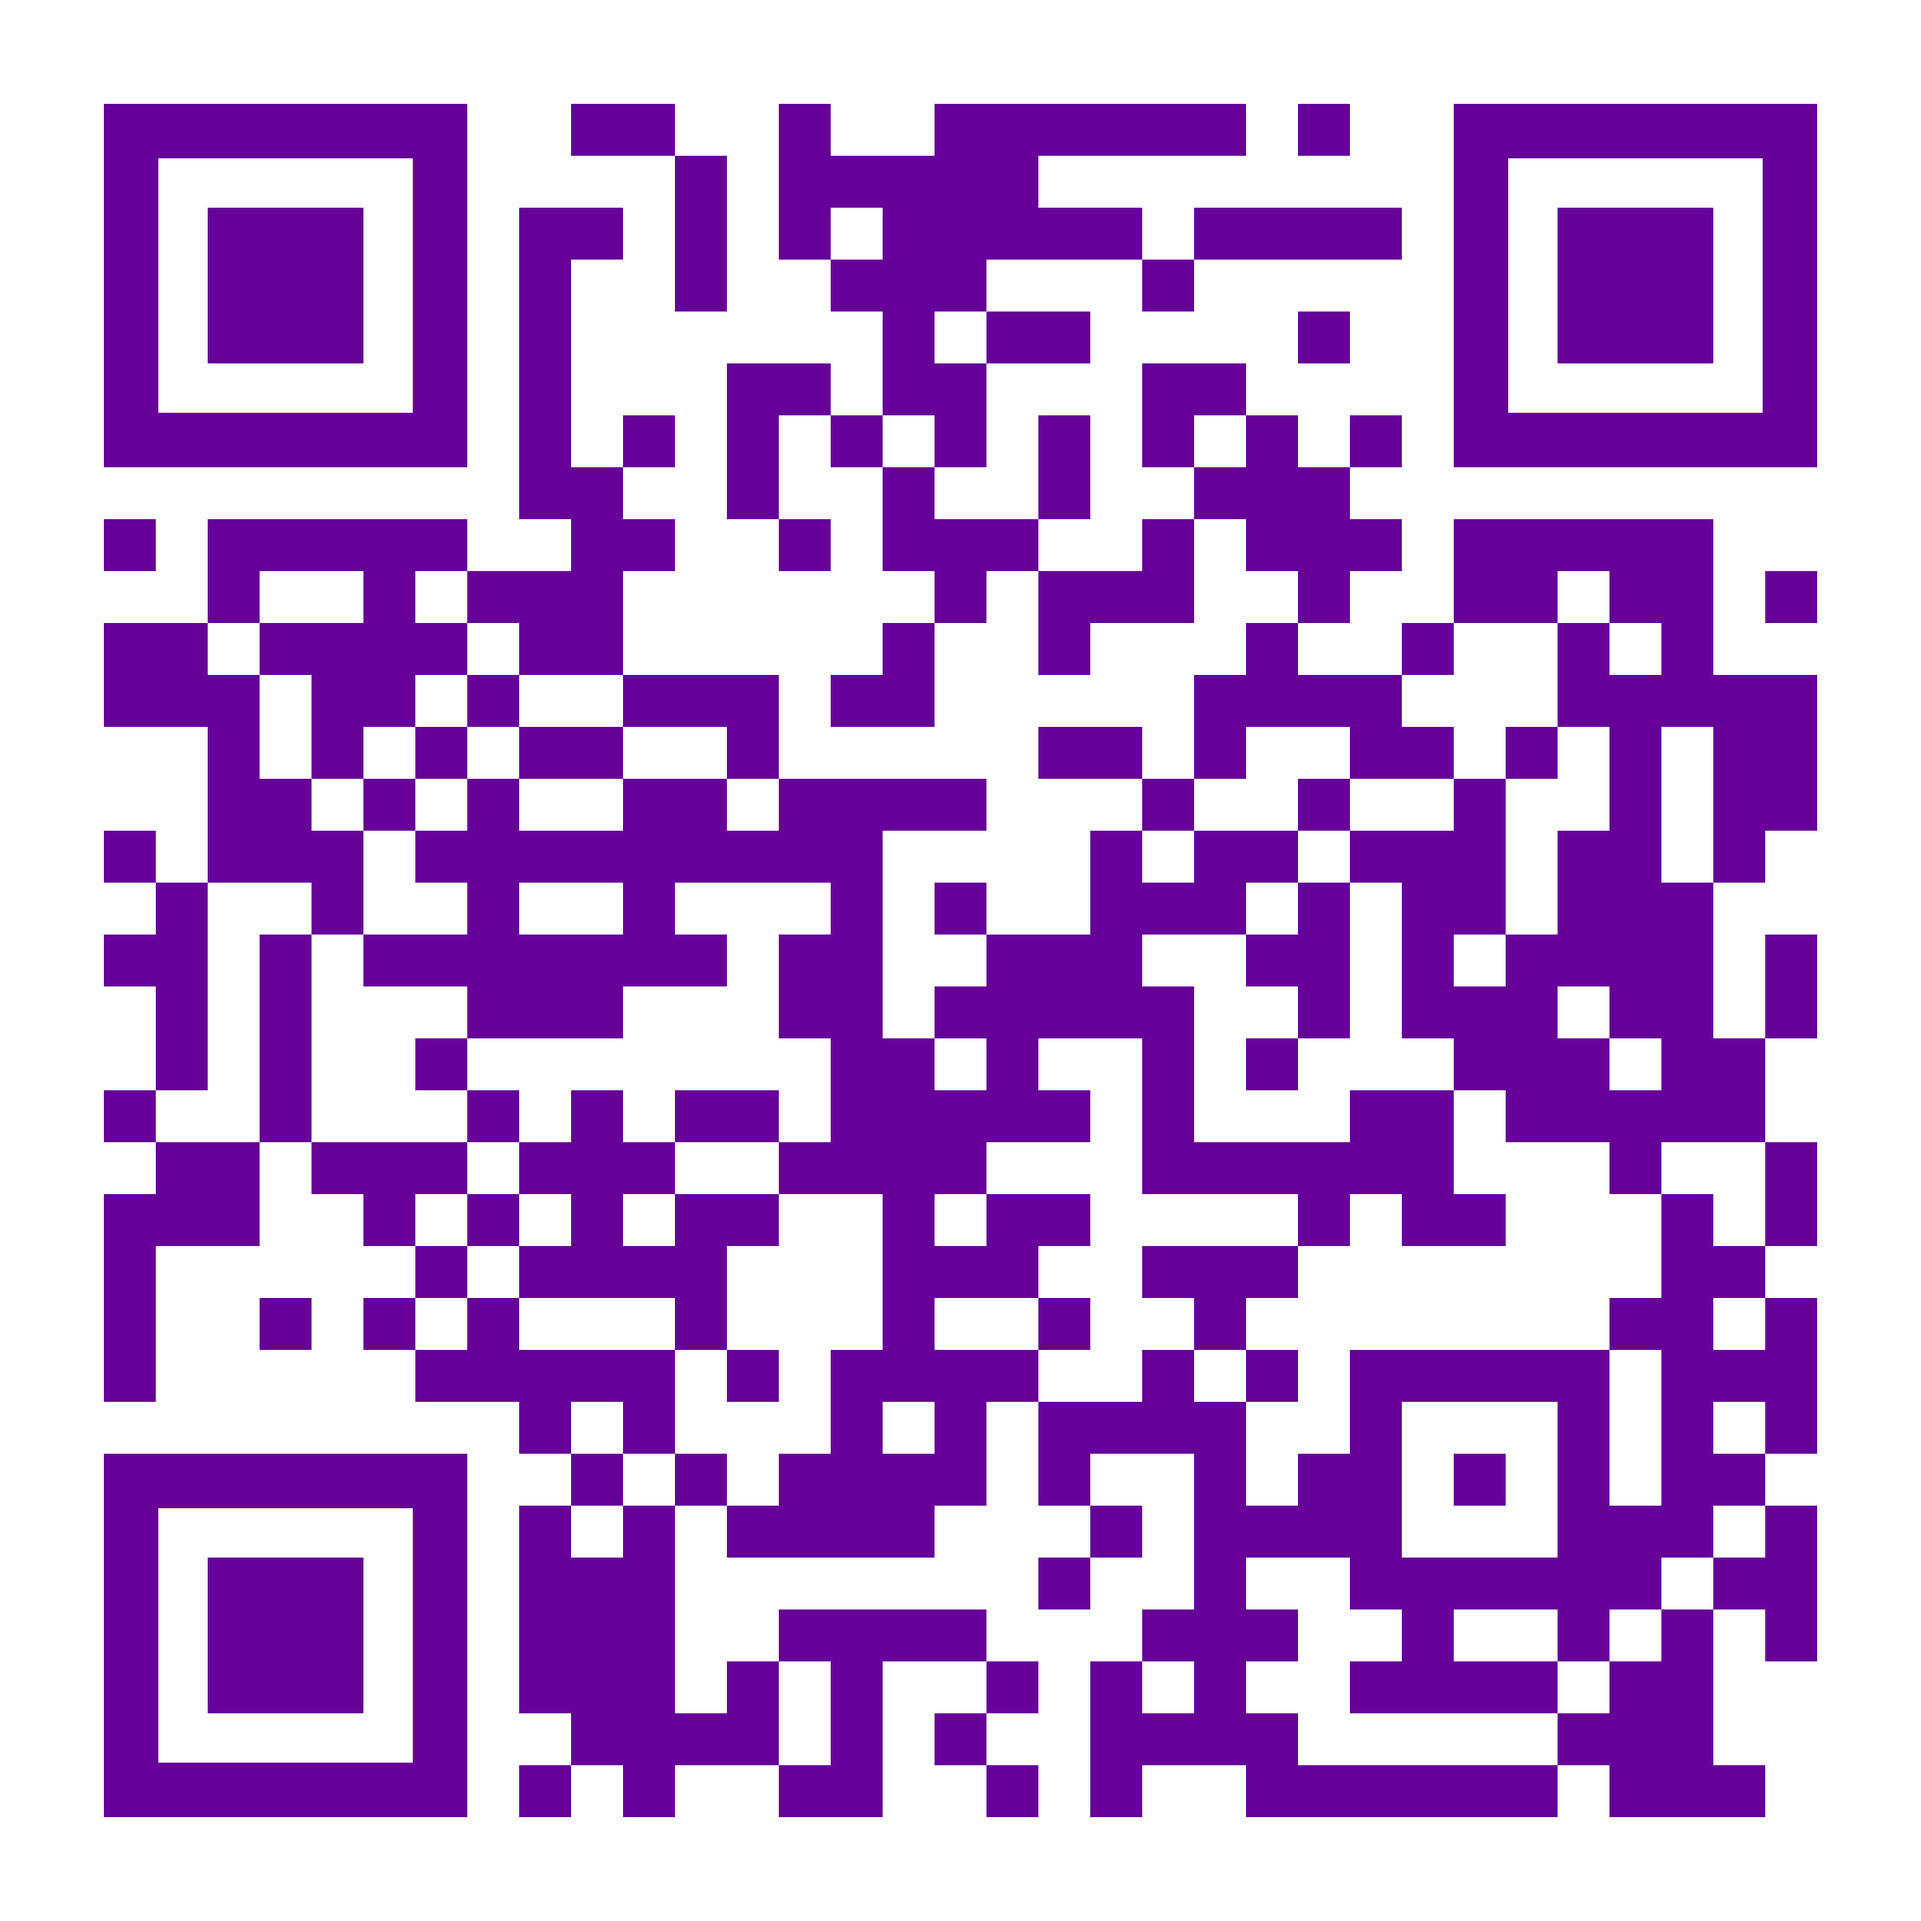
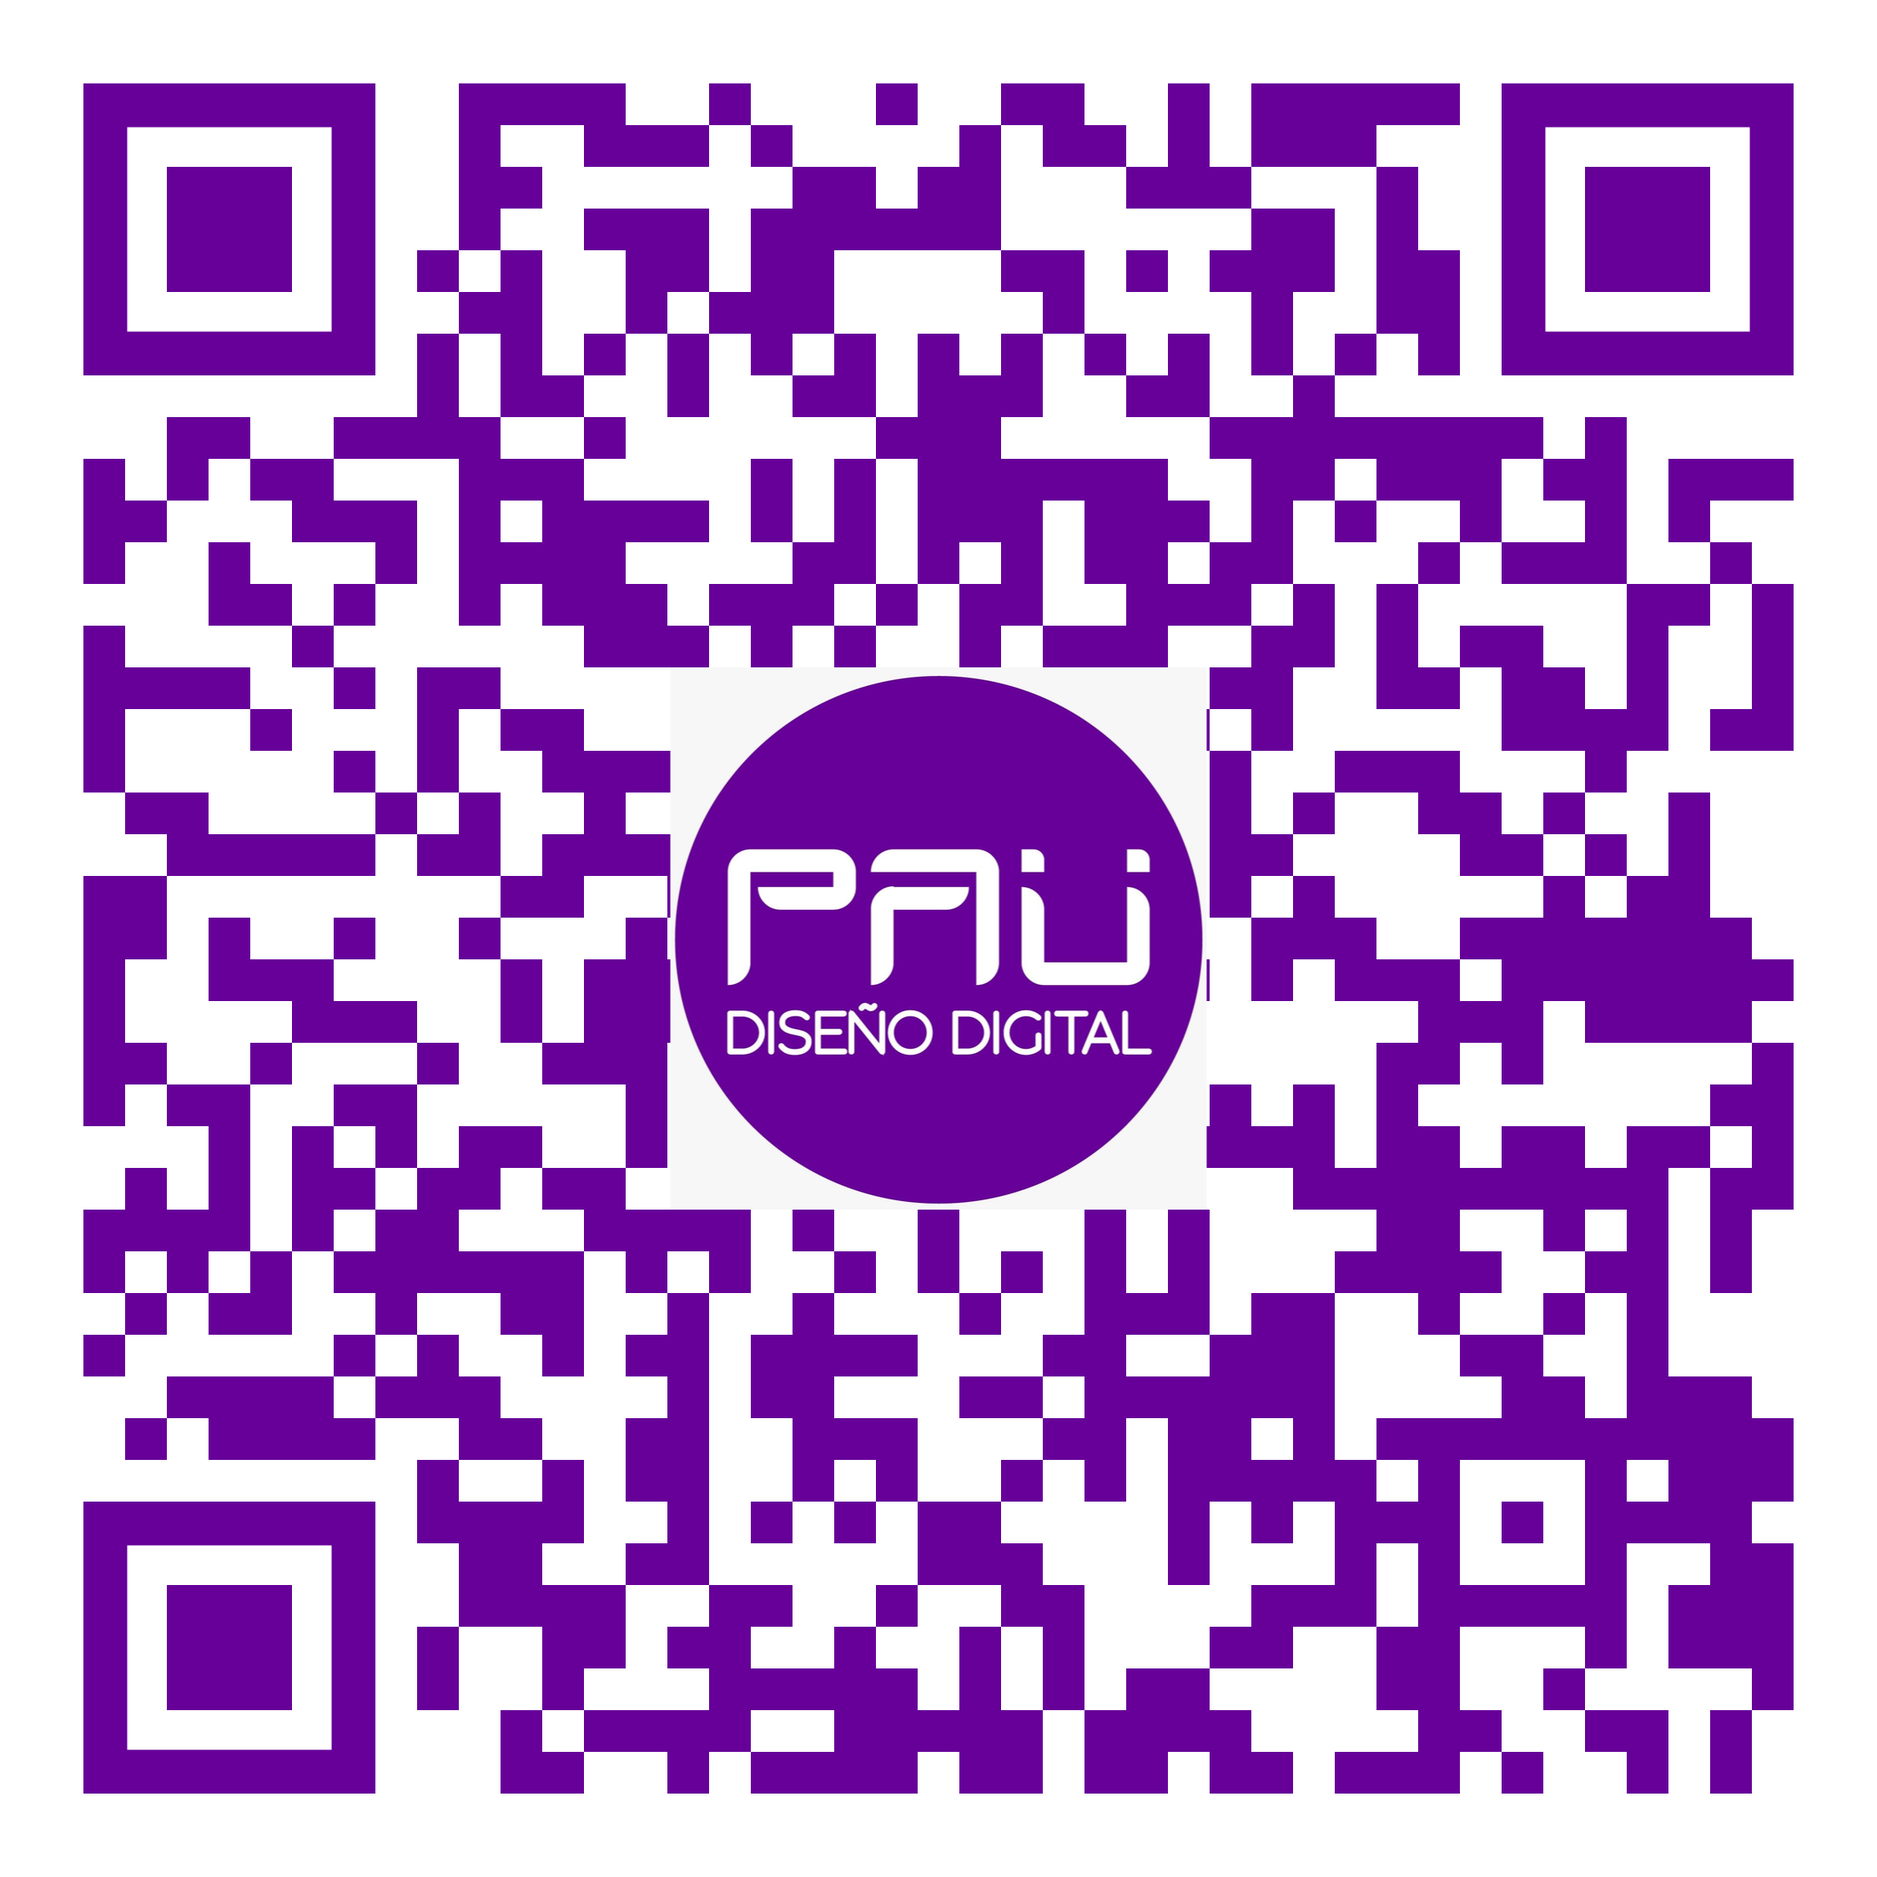
cambios datos de contacto

diff --git a/index.html b/index.html
@@ -46,8 +46,9 @@
          <!--fila 2-->
           <div class="row align-items-center">
             <div class="col-4">
-                <a href="data:text/vcard;charset=utf-8,BEGIN%3AVCARD%0AVERSION%3A3.0%0AFN%3APAÚ%20Diseño%20Digital%0ATEL%3A%2B56959038037%0AEMAIL%3Apaudiseno22%40gmail.com%0AURL%3Ahttps%3A%2F%2Fpriscillabuhrle.github.io%2FPAU_Disenos%2F%0AEND%3AVCARD"
-                download="contacto.vcf"><i class="fa-regular fa-user iconoCuerpo"></i></a>
+                <a href="data:text/vcard;charset=utf-8,BEGIN%3AVCARD%0AVERSION%3A3.0%0AFN%3ALilian%20Soto%20Astudillo%0ATEL%3A%2B56993691072%0AEMAIL%3Apaudiseno22%40gmail.com%0ATITLE%3AGerente%20Comercial%0AURL%3Ahttps%3A%2F%2Fpriscillabuhrle.github.io%2FLilian-Soto-Astudillo%2F%0AEND%3AVCARD"
+download="contacto.vcf"><i class="fa-regular fa-user iconoCuerpo"></i></a>
+
                 <p class="textIcono">Guardar</p>
             </div>
             <div class="col-4">
